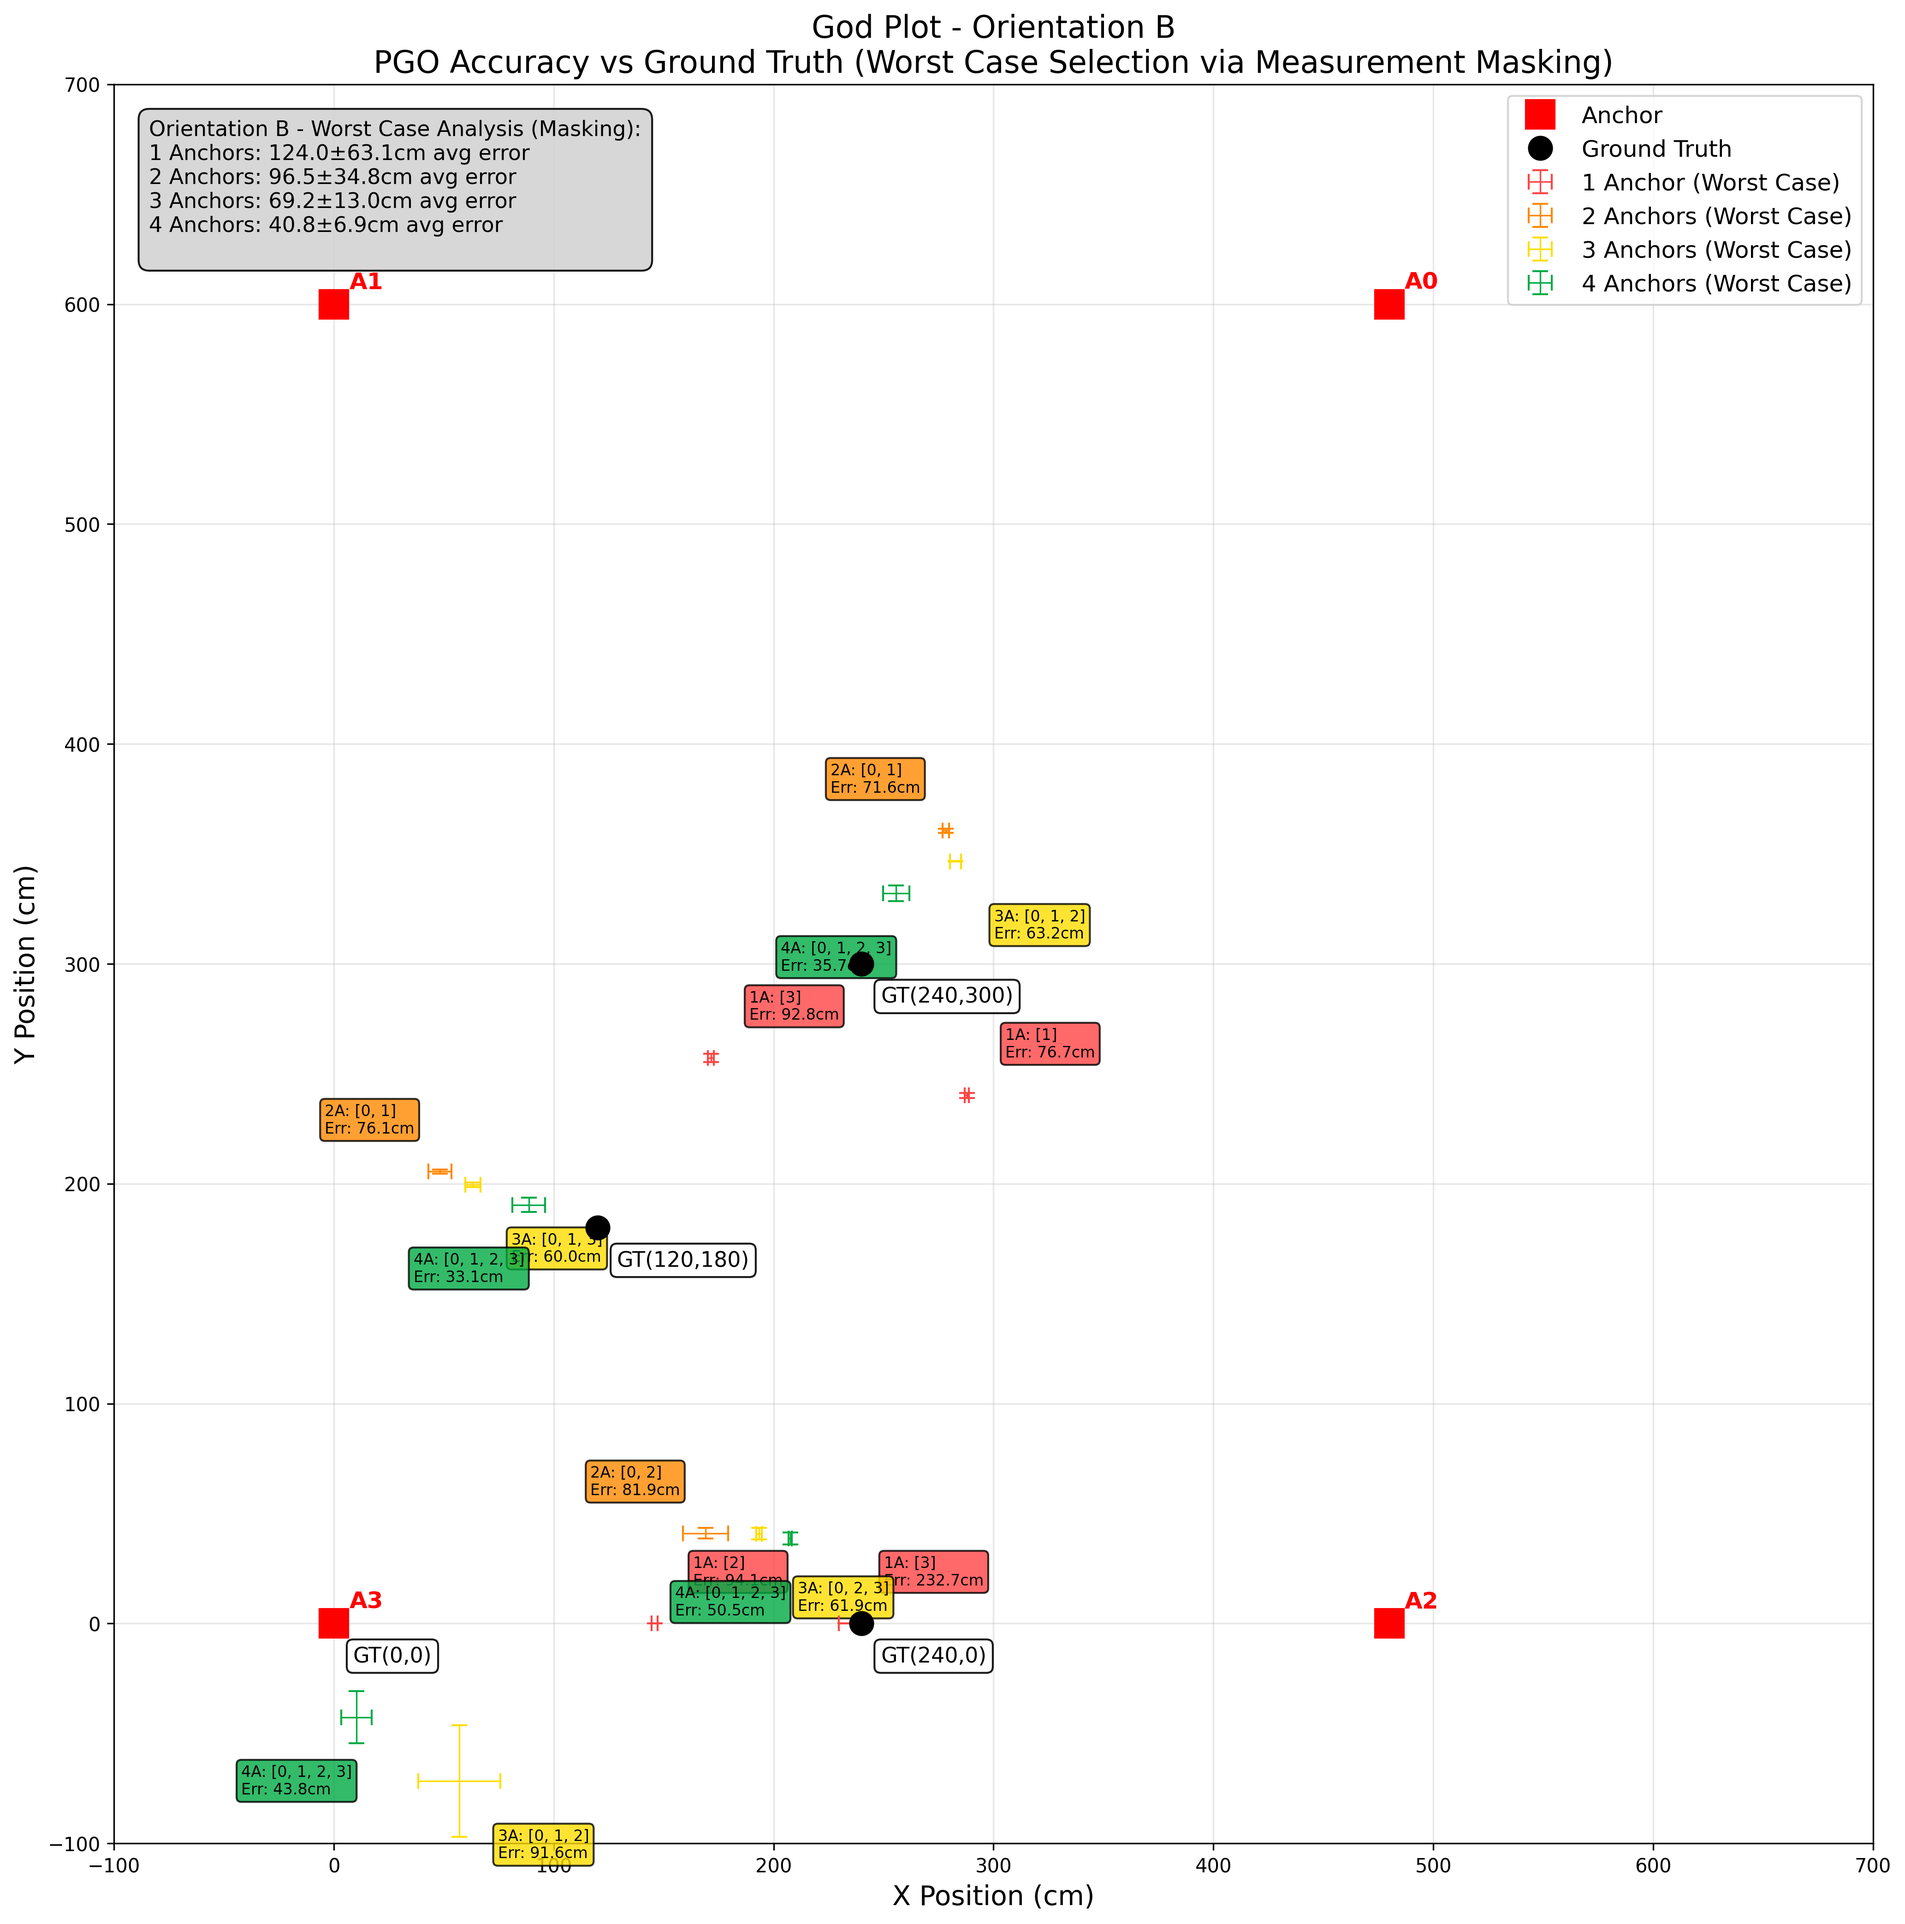
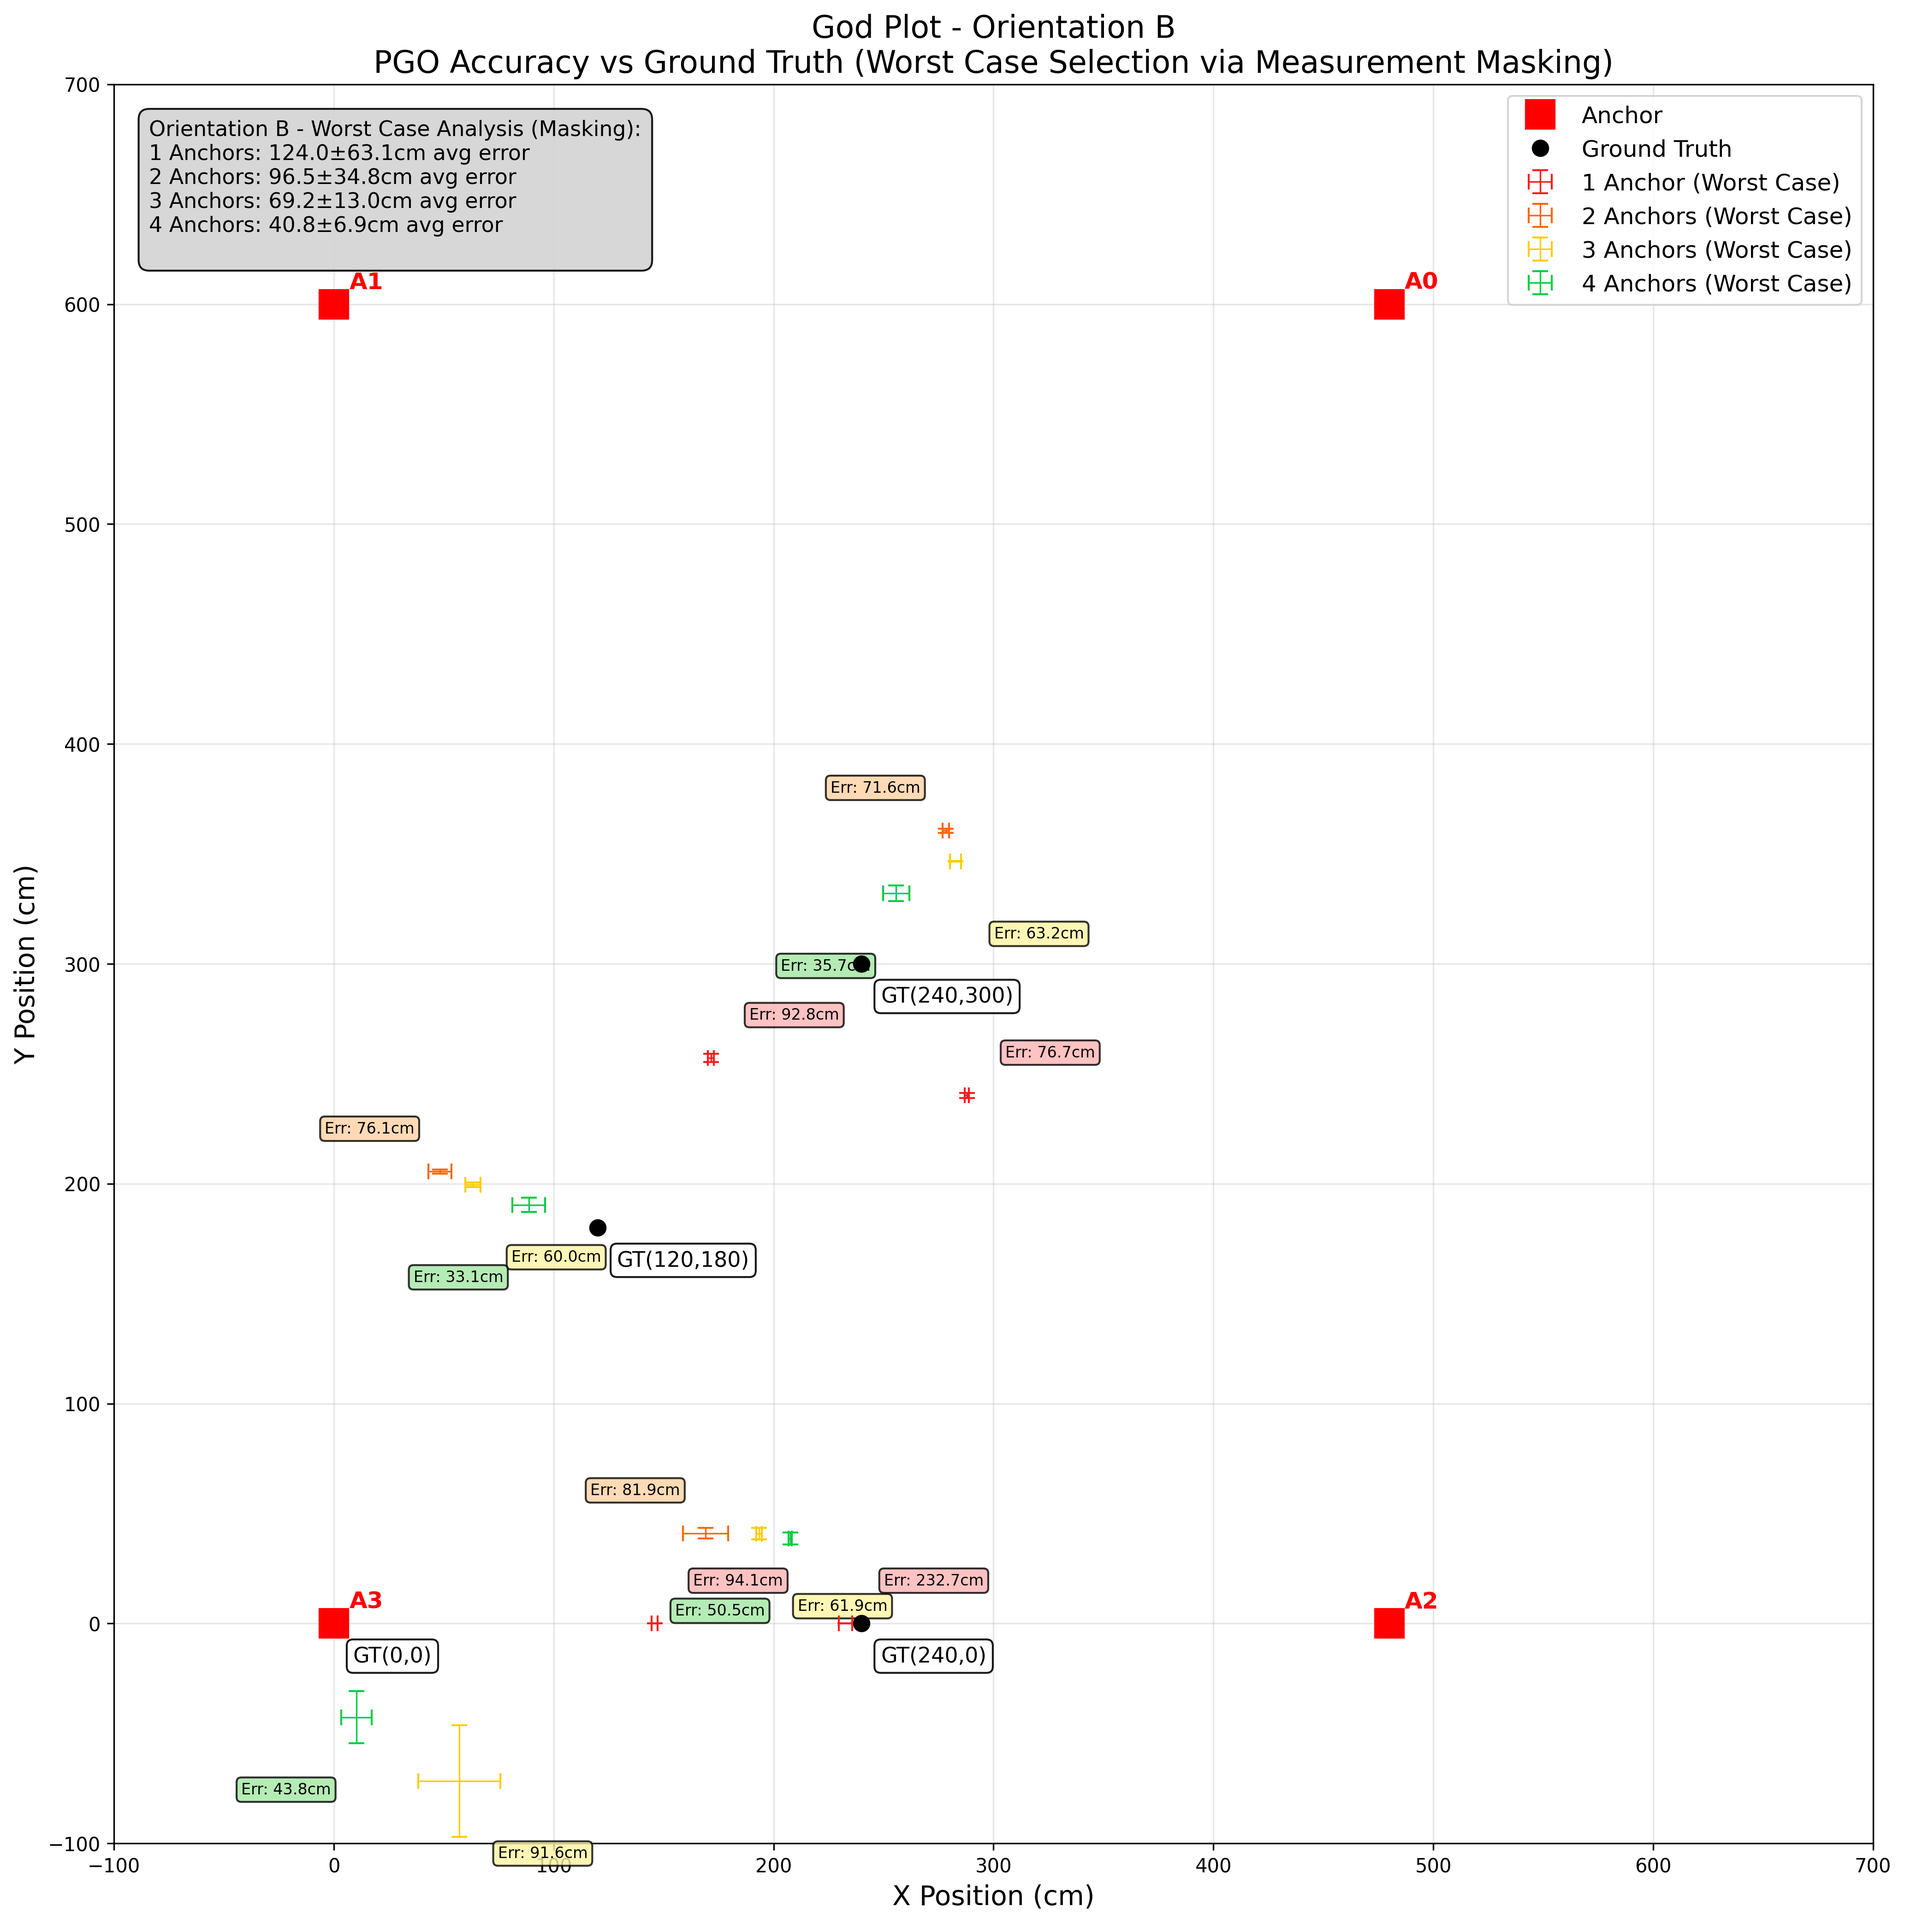
plotting visual update

diff --git a/Data_collection/Data/data_processing_scripts/generate_god_plots_v5.py b/Data_collection/Data/data_processing_scripts/generate_god_plots_v5.py
@@ -378,7 +378,10 @@ def create_god_plot_v5(orientation: str, data: List[Dict], output_dir: str):
                    fontweight='bold', zorder=11)
     
     # Colors for different anchor counts (worst to best) - Red to Green progression
-    colors = {1: '#FF4444', 2: '#FF8800', 3: '#FFDD00', 4: '#00AA44'}
+    # Darker colors for error bars (better visibility)
+    plot_colors = {1: '#FF1A1A', 2: '#FF6600', 3: '#FFCC00', 4: '#00CC44'}
+    # Pastel colors for labels (softer, less intrusive)
+    label_colors = {1: '#FFB3B3', 2: '#FFD1A3', 3: '#FFF4A3', 4: '#A3E6A3'}
     # Use same marker for all anchor counts for consistency
     marker = 'o'
     
@@ -389,8 +392,8 @@ def create_god_plot_v5(orientation: str, data: List[Dict], output_dir: str):
         
         print(f"\n  Processing position {ground_truth}:")
         
-        # Plot ground truth position
-        ax.plot(ground_truth[0], ground_truth[1], 'ko', markersize=12, 
+        # Plot ground truth position (smaller size)
+        ax.plot(ground_truth[0], ground_truth[1], 'ko', markersize=8, 
                 label='Ground Truth' if pos_key == list(position_groups.keys())[0] else '',
                 zorder=8)
         ax.annotate(f'GT({ground_truth[0]:.0f},{ground_truth[1]:.0f})', 
@@ -411,12 +414,13 @@ def create_god_plot_v5(orientation: str, data: List[Dict], output_dir: str):
             stats = statistics[num_anchors]
             mean_x, mean_y, std_x, std_y = stats
             
-            color = colors.get(num_anchors, 'gray')
+            plot_color = plot_colors.get(num_anchors, 'gray')
+            label_color = label_colors.get(num_anchors, 'gray')
             
             # Plot crosshair error bars only (no center marker to avoid clutter)
             ax.errorbar(mean_x, mean_y, xerr=std_x, yerr=std_y, 
                        fmt='none',  # No center marker
-                       color=color, 
+                       color=plot_color, 
                        capsize=4, capthick=1, elinewidth=0.8,  # Thinner lines
                        label=f'{num_anchors} Anchor{"s" if num_anchors > 1 else ""} (Worst Case)' 
                              if pos_key == list(position_groups.keys())[0] else '',
@@ -430,16 +434,16 @@ def create_god_plot_v5(orientation: str, data: List[Dict], output_dir: str):
             offsets = {1: (20, 20), 2: (-60, 20), 3: (20, -40), 4: (-60, -40)}
             offset_x, offset_y = offsets.get(num_anchors, (15, 15))
             
-            anchor_text = f"{num_anchors}A: {worst_combinations[num_anchors]}\nErr: {distance_error:.1f}cm"
+            anchor_text = f"Err: {distance_error:.1f}cm"
             ax.annotate(anchor_text, (mean_x, mean_y), 
                        xytext=(offset_x, offset_y), textcoords='offset points', fontsize=8, 
-                       bbox=dict(boxstyle='round,pad=0.3', facecolor=color, alpha=0.8),
+                       bbox=dict(boxstyle='round,pad=0.3', facecolor=label_color, alpha=0.8),
                        zorder=6)
     
     # Add summary statistics text
     summary_text = f"Orientation {orientation} - Worst Case Analysis (Masking):\n"
     
-    for num_anchors in sorted(colors.keys()):
+    for num_anchors in sorted(plot_colors.keys()):
         anchor_errors = []
         
         for pos_key in position_groups.keys():
@@ -486,7 +490,7 @@ def main():
     """Main function to generate all god plots with proper measurement masking."""
     
     # Paths
-    csv_path = '/Users/hongyilin/projects/uwb-localization-mesh/Data_collection/Data/28oct/datapoints(28oct).csv'
+    csv_path = '/Users/hongyilin/projects/uwb-localization-mesh/Data_collection/Data/28oct/datapoints28oct.csv'
     output_dir = '/Users/hongyilin/projects/uwb-localization-mesh/Data_collection/Data/28oct/god_plots'
     
     print("Loading data...")
